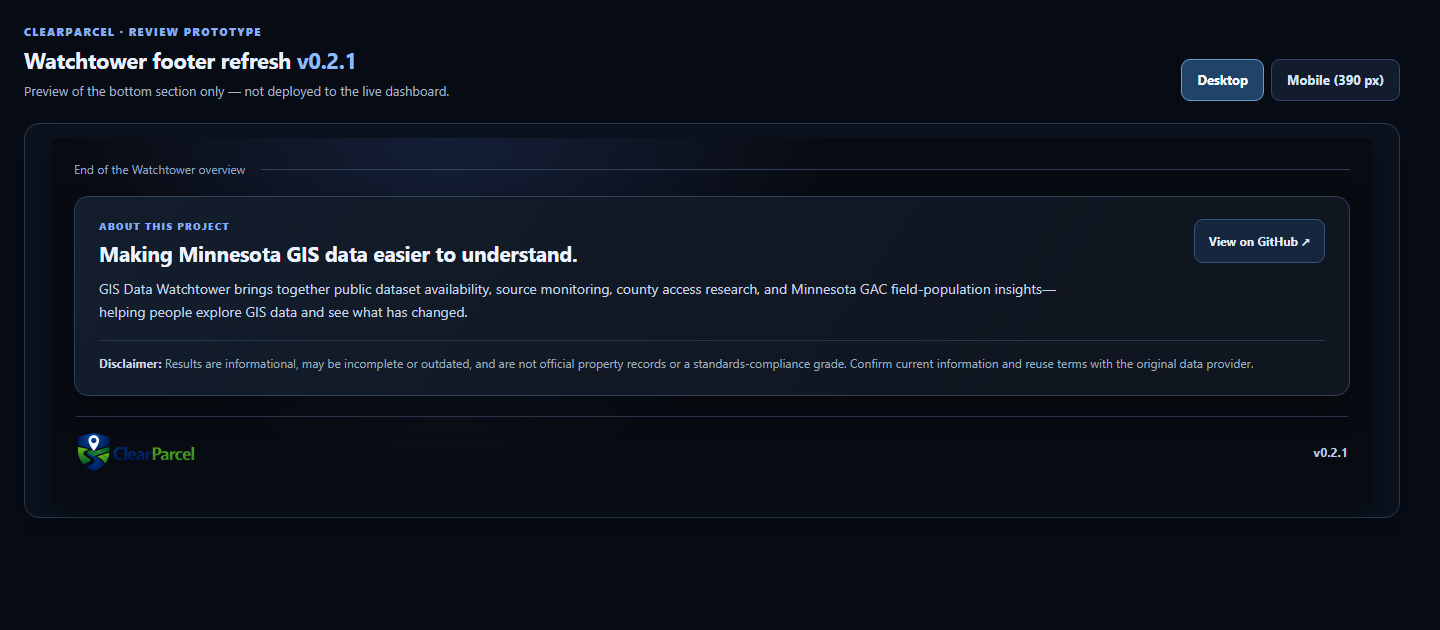
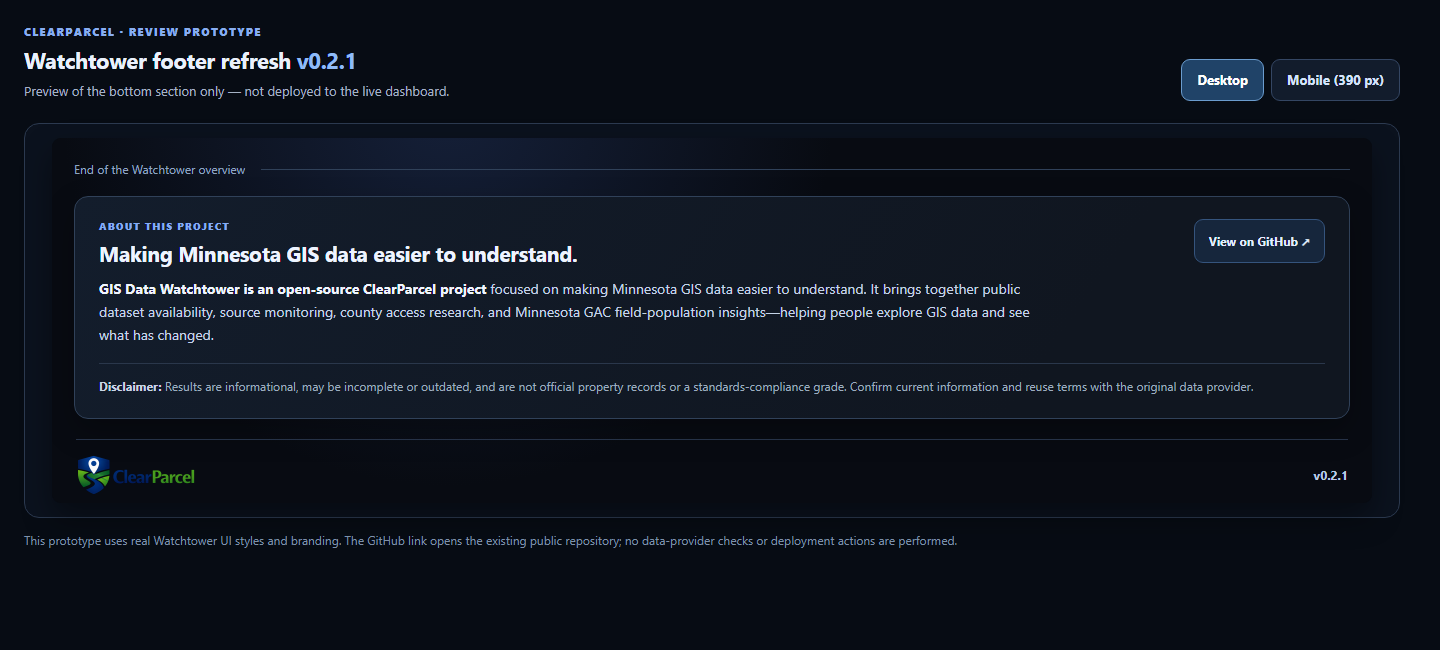
docs: add approved open-source ClearParcel purpose statement

diff --git a/docs/previews/watchtower-v0.2.1-footer.html b/docs/previews/watchtower-v0.2.1-footer.html
@@ -15,7 +15,7 @@ h1{font-size:22px;letter-spacing:-.3px;margin:6px 0 6px}
 .preview-controls button:focus-visible{outline:2px solid #8ac2ff;outline-offset:2px}
 .stage{display:flex;justify-content:center;background:#0b121e;border:1px solid #2c3a50;padding:14px;border-radius:15px;min-height:0;transition:all .2s}
 iframe{width:100%;max-width:1320px;height:365px;border:0;border-radius:9px;background:#080b12;transition:width .25s;box-shadow:0 14px 30px #0006}
-.stage.mobile iframe{width:390px;max-width:100%;height:535px}
+.stage.mobile iframe{width:390px;max-width:100%;height:630px}
 .preview-hint{color:#7e91a9;font-size:12px;margin-top:14px}
 @media(max-width:660px){body{padding:12px}.preview-topbar{align-items:start;margin-bottom:16px}.stage{padding:8px}.stage.mobile iframe{width:100%;}.preview-hint{line-height:1.5}}
 </style></head><body><div class="preview-shell">
@@ -83,6 +83,7 @@ code{font-size:11px;color:#b9c6d8}.technical summary,.diagnostics summary{cursor
 .public-about-eyebrow{display:block;font-size:10px;font-weight:800;letter-spacing:.12em;color:#85adf5;text-transform:uppercase;margin-bottom:6px}
 .public-about h2{font-size:21px;line-height:1.28;letter-spacing:-.2px;margin:0 0 10px}
 .public-about-lead{font-size:14px;line-height:1.65;color:#c5d4e8;max-width:960px;margin:0}
+.public-about-lead strong{font-weight:750;color:#f0f5fe}
 .public-about-link{display:inline-flex;align-items:center;justify-content:center;gap:7px;padding:10px 14px;min-height:44px;border:1px solid #35547d;background:#16263c;border-radius:9px;color:#e3efff;font-size:12px;font-weight:700;white-space:nowrap;text-decoration:none}
 .public-about-link:hover{background:#1b3050;text-decoration:none;border-color:#5a84bf}
 .public-about-disclaimer{font-size:12px;line-height:1.55;color:#9dacbf;margin:17px 0 0;padding-top:13px;border-top:1px solid #2a374b}
@@ -109,7 +110,7 @@ html,body{height:auto;min-height:0}
     &lt;div class=&quot;public-about-heading&quot;&gt;
       &lt;span class=&quot;public-about-eyebrow&quot;&gt;About this project&lt;/span&gt;
       &lt;h2 id=&quot;watchtower-about-title&quot;&gt;Making Minnesota GIS data easier to understand.&lt;/h2&gt;
-      &lt;p class=&quot;public-about-lead&quot;&gt;GIS Data Watchtower brings together public dataset availability, source monitoring, county access research, and Minnesota GAC field-population insights—helping people explore GIS data and see what has changed.&lt;/p&gt;
+      &lt;p class=&quot;public-about-lead&quot;&gt;&lt;strong&gt;GIS Data Watchtower is an open-source ClearParcel project&lt;/strong&gt; focused on making Minnesota GIS data easier to understand. It brings together public dataset availability, source monitoring, county access research, and Minnesota GAC field-population insights—helping people explore GIS data and see what has changed.&lt;/p&gt;
     &lt;/div&gt;
     &lt;a class=&quot;public-about-link&quot; href=&quot;https://github.com/clearparcel/GIS-Data-Watchtower&quot; target=&quot;_blank&quot; rel=&quot;noopener noreferrer&quot; aria-label=&quot;View GIS Data Watchtower on GitHub (opens in a new tab)&quot;&gt;View on GitHub ↗&lt;/a&gt;
   &lt;/div&gt;

diff --git a/clearparcel/datawatch/public_dashboard.py b/clearparcel/datawatch/public_dashboard.py
@@ -278,7 +278,7 @@ def render_public_dashboard(config: dict) -> str:
     <div class="public-about-heading">
       <span class="public-about-eyebrow">About this project</span>
       <h2 id="watchtower-about-title">Making Minnesota GIS data easier to understand.</h2>
-      <p class="public-about-lead">GIS Data Watchtower brings together public dataset availability, source monitoring, county access research, and Minnesota GAC field-population insights—helping people explore GIS data and see what has changed.</p>
+      <p class="public-about-lead"><strong>GIS Data Watchtower is an open-source ClearParcel project</strong> focused on making Minnesota GIS data easier to understand. It brings together public dataset availability, source monitoring, county access research, and Minnesota GAC field-population insights—helping people explore GIS data and see what has changed.</p>
     </div>
     <a class="public-about-link" href="https://github.com/clearparcel/GIS-Data-Watchtower" target="_blank" rel="noopener noreferrer" aria-label="View GIS Data Watchtower on GitHub (opens in a new tab)">View on GitHub ↗</a>
   </div>

diff --git a/clearparcel/datawatch/dashboard_templates.py b/clearparcel/datawatch/dashboard_templates.py
@@ -64,6 +64,7 @@ code{font-size:11px;color:#b9c6d8}.technical summary,.diagnostics summary{cursor
 .public-about-eyebrow{display:block;font-size:10px;font-weight:800;letter-spacing:.12em;color:#85adf5;text-transform:uppercase;margin-bottom:6px}
 .public-about h2{font-size:21px;line-height:1.28;letter-spacing:-.2px;margin:0 0 10px}
 .public-about-lead{font-size:14px;line-height:1.65;color:#c5d4e8;max-width:960px;margin:0}
+.public-about-lead strong{font-weight:750;color:#f0f5fe}
 .public-about-link{display:inline-flex;align-items:center;justify-content:center;gap:7px;padding:10px 14px;min-height:44px;border:1px solid #35547d;background:#16263c;border-radius:9px;color:#e3efff;font-size:12px;font-weight:700;white-space:nowrap;text-decoration:none}
 .public-about-link:hover{background:#1b3050;text-decoration:none;border-color:#5a84bf}
 .public-about-disclaimer{font-size:12px;line-height:1.55;color:#9dacbf;margin:17px 0 0;padding-top:13px;border-top:1px solid #2a374b}

diff --git a/tests/test_public_dashboard.py b/tests/test_public_dashboard.py
@@ -22,6 +22,9 @@ class PublicDashboardTests(unittest.TestCase):
             page = render_public_dashboard({"_public_mode": True})
         self.assertIn('id="about-watchtower"', page)
         self.assertIn('Making Minnesota GIS data easier to understand.', page)
+        self.assertIn("<strong>GIS Data Watchtower is an open-source ClearParcel project</strong>", page)
+        self.assertIn("public dataset availability, source monitoring, county access research,", page)
+        self.assertIn("Minnesota GAC field-population insights", page)
         self.assertIn("Disclaimer:", page)
         self.assertIn('href="https://github.com/clearparcel/GIS-Data-Watchtower"', page)
         self.assertIn('rel="noopener noreferrer"', page)
